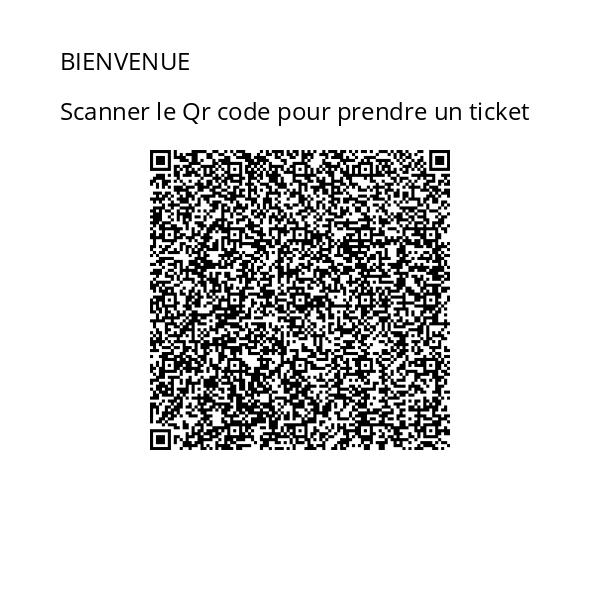
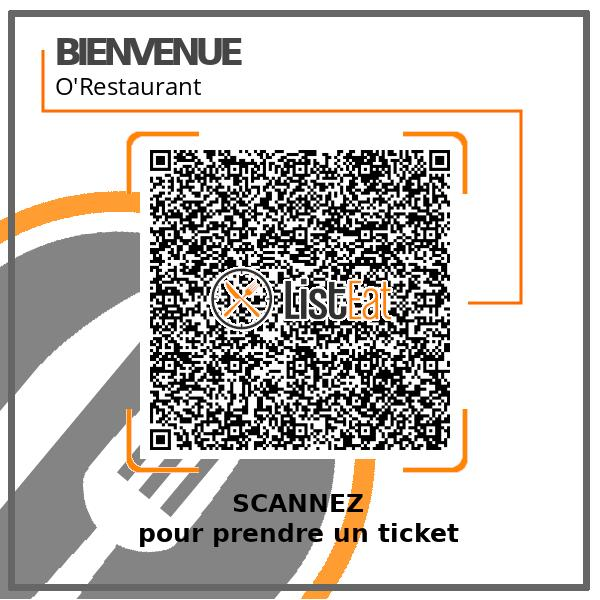
style qrcode

diff --git a/backend/src/Service/QrCodeGenerator.php b/backend/src/Service/QrCodeGenerator.php
@@ -15,7 +15,7 @@ class QrCodeGenerator
      * returns booleen
      * Generate
      */
-    public function generate($restaurantId)
+    public function generate($restaurantId,$restaurantName)
     {
 
         //We crypt restaurant Id
@@ -35,7 +35,7 @@ class QrCodeGenerator
         $qrCode->setForegroundColor(['r' => 0, 'g' => 0, 'b' => 0, 'a' => 0]);
         //$qrCode->setBackgroundColor(['r' => 255, 'g' => 255, 'b' => 255, 'a' => 0]);
         
-        //$qrCode->setLogoPath('../ressource/logo/LogoListEat.png');
+        $qrCode->setLogoPath($_SERVER['PWD']."/ressource/logo/QrcodeCalqueV3.png");
         //$qrCode->setLogoSize(150, 200);
         $qrCode->setRoundBlockSize(false);
         $qrCode->setValidateResult(false);
@@ -49,26 +49,24 @@ class QrCodeGenerator
         $qrCode->writeFile($_SERVER['PWD']."/file/temp/Qrcode".$restaurantId.".png");
 
         $image = imagecreatefrompng($_SERVER['PWD']."/file/temp/Qrcode".$restaurantId.".png"); // this is a source image
-        //$logo = imagecreatefrompng($_SERVER['PWD']."/ressource/logo/LogoListEat.png"); //Owner logo
-
+        //$calque = imagecreatefrompng("$_SERVER['PWD']."/ressource/logo/QrcodeCalque.png"); //Calque
 
         //Text on the Qr Code!
-        $texte = "BIENVENUE";
-        $texte1 = "Scanner le Qr code pour prendre un ticket";
+        $texte = $restaurantName;
+  
         // Text color
         $color = imagecolorallocate($image, 0, 0, 0);
 
         //We put a font style
-        imagettftext($image, 18, 0, 60, 70, 1, $_SERVER['PWD'].'/ressource/police/OpenSans-Regular.ttf', $texte);
-        imagettftext($image, 18, 0, 60, 120, 1, $_SERVER['PWD'].'/ressource/police/OpenSans-Regular.ttf', $texte1);
+        imagettftext($image, 18, 0, 55, 95, 1, $_SERVER['PWD'].'/ressource/police/OpenSans-Regular.ttf', $texte);
+     
         //we save image on server
+        //imagecopymerge($image, $calque, 0, 0, 0, 0, 100, 47, 75);
         $UrlImage = $_SERVER['PWD']."/file/qr_code/qrcode-".$restaurantId.".jpg";
         imagejpeg($image, $_SERVER['PWD']."/file/qr_code/qrcode-".$restaurantId.".jpg");
 
         //Remove the Qr-code with Out Logo
         unlink($_SERVER['PWD'].'/file/temp/Qrcode'.$restaurantId.'.png');
-
-
 
 
         if (file_exists($UrlImage)) {

diff --git a/backend/src/Controller/Api/QrCodeController.php b/backend/src/Controller/Api/QrCodeController.php
@@ -43,7 +43,7 @@ class QrCodeController extends AbstractController
         } 
 
         //we generat the QRccode if the restaurant exist
-        $lien = QrCodeGenerator::generate($id);
+        $lien = QrCodeGenerator::generate($id,$restaurant->getName());
 
         $QrCode = new QrCode;
         $QrCode->setUrl($lien);
